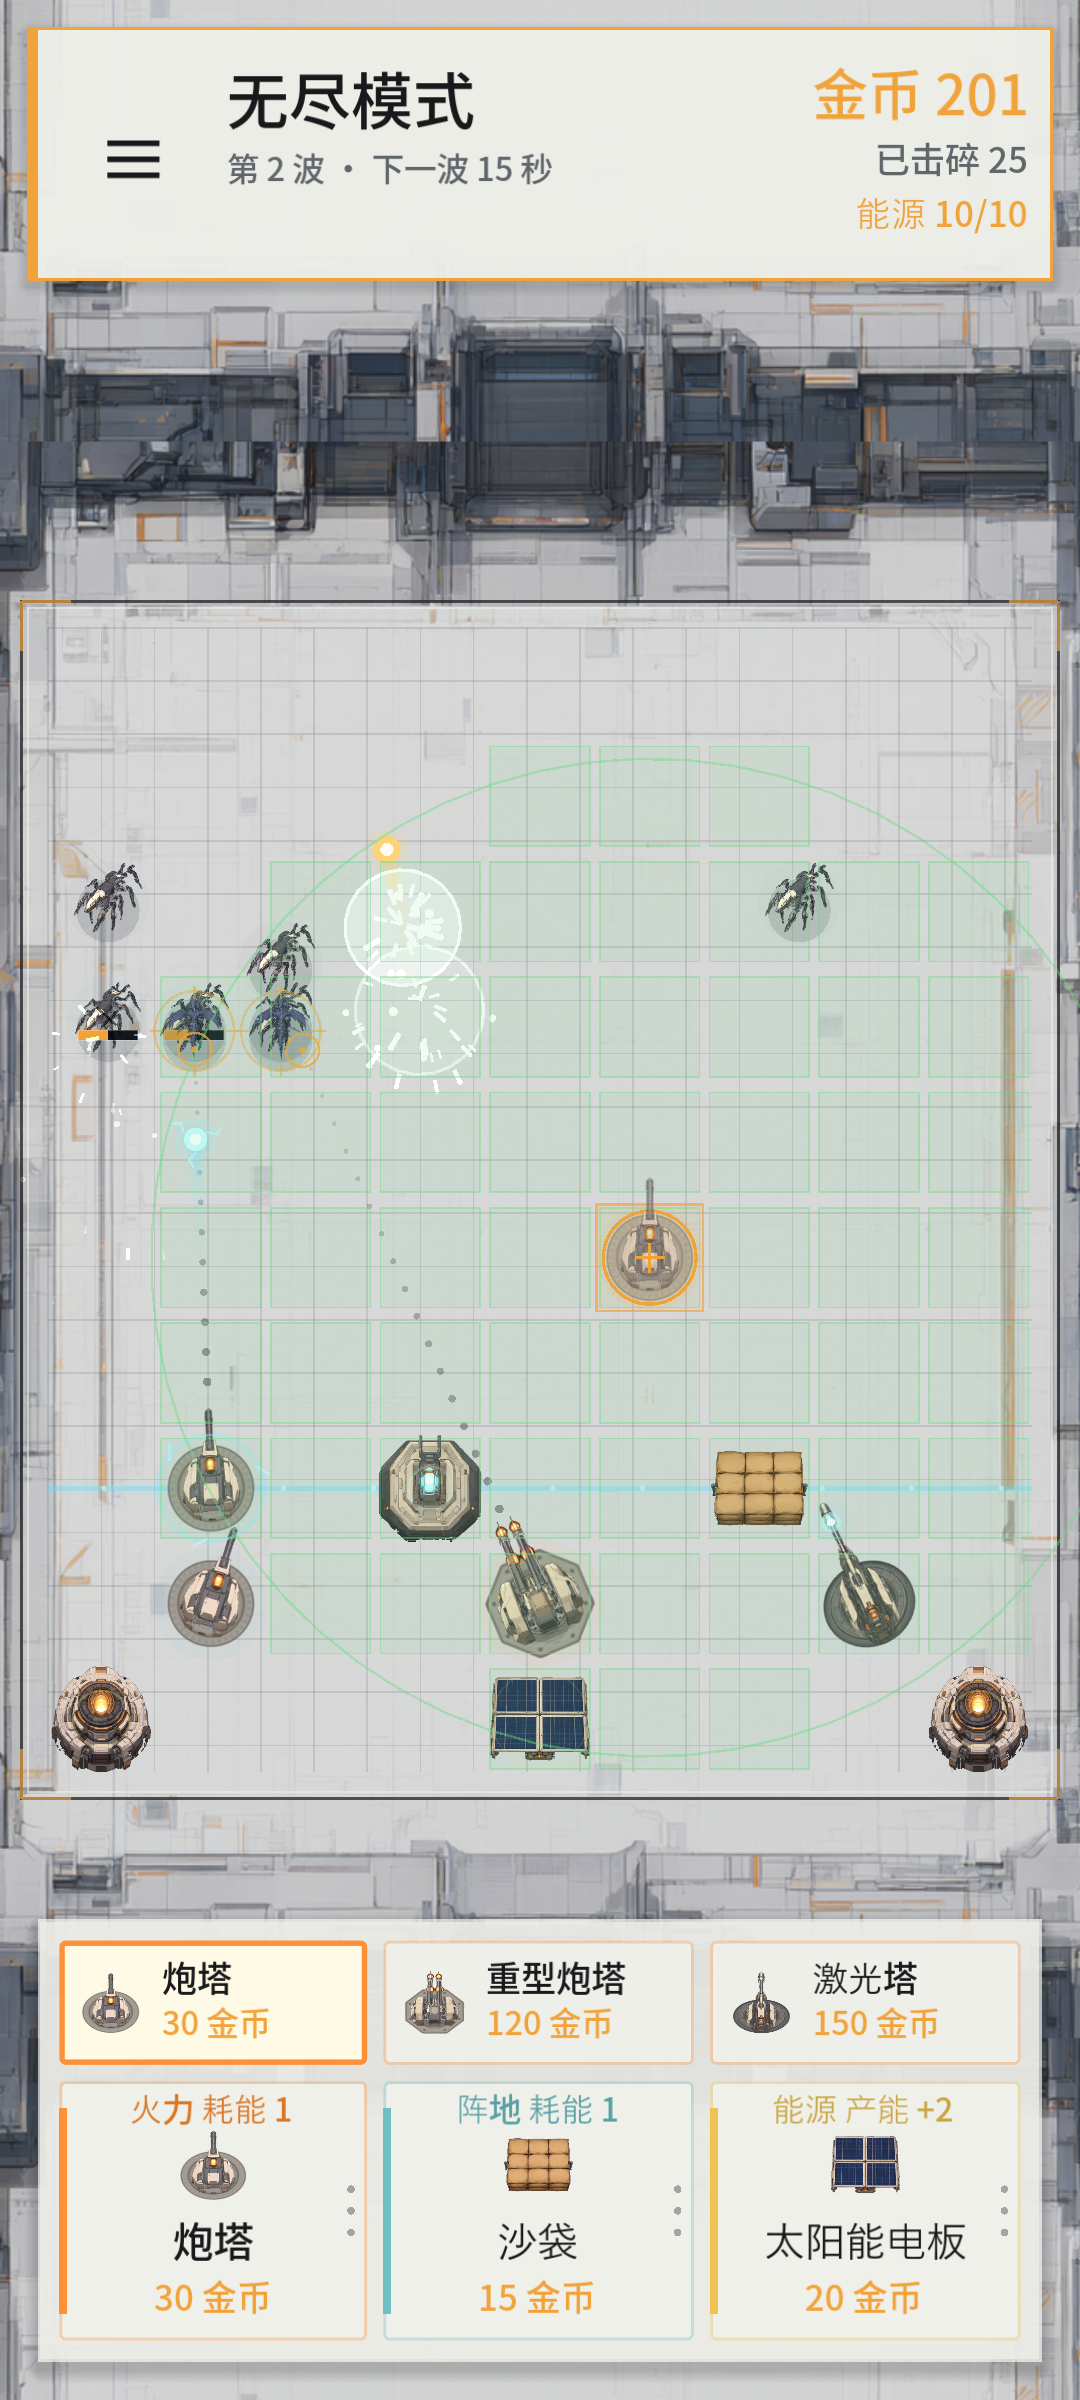
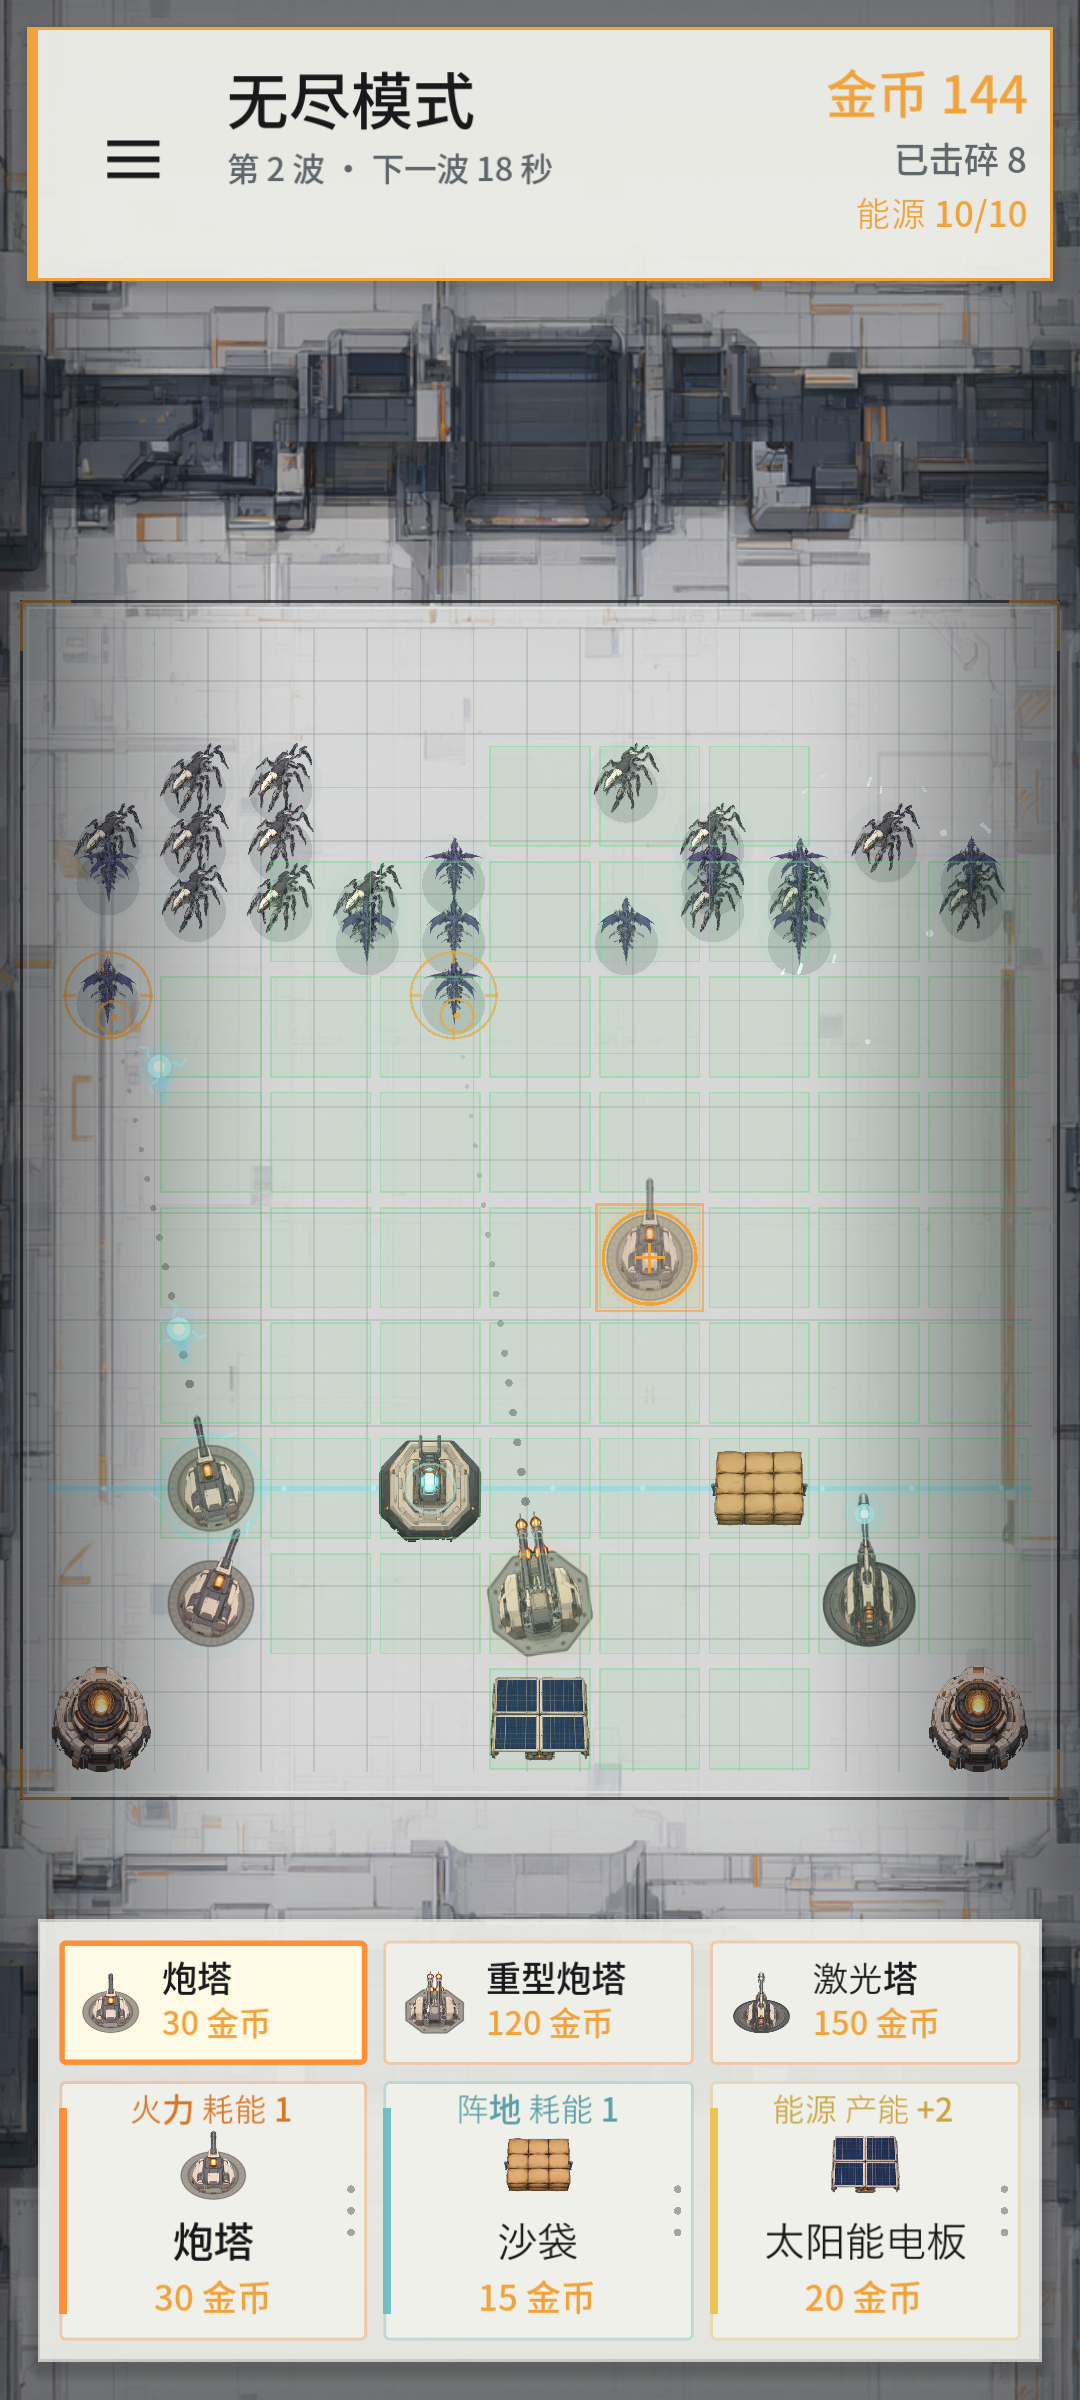
feat: 部署时减速压暗，射程改用格子判定
- 拖拽与二次确认期间战场速度降到 28%，屏幕四周压暗，确认或取消后恢复

- 移除射程圆弧，放置预览、选中建筑和索敌统一使用绿色格子

- 目标选择按格子过滤，更新测试与预览截图

diff --git a/README.md b/README.md
@@ -27,7 +27,7 @@
 - 开局没有默认建筑，玩家有 50 金币；5 秒准备期内不生成、不滚动方块
 - 底部商店固定三张类别卡：火力、阵地、能源；点击类别切换其道具列表，选中道具后类别卡会显示该道具
 - 火力：炮塔基础伤害 1、攻速 3.3 次/秒、射程 300；重型炮塔伤害 10、攻速 0.5 次/秒、射程 500，按威力连续贯穿；激光塔持续光束直接灼烧目标，伤害 5/0.2 秒
-- 火力建筑为 360° 圆形射程；拖放到位后进入二次确认，再拖一次选初始朝向，松手确认并扣费，之后自动锁定圆形范围内的目标
+- 火力建筑为 360° 圆形射程，按绿色格子判定目标；拖放到位后进入二次确认，再拖一次选初始朝向，松手确认并扣费，之后自动锁定射程格子内的目标
 - 重型炮塔 120 金币、激光塔 150 金币，和炮塔并列出现在火力道具列表中，直接建造
 - 阵地：沙袋生命 120，敌人接触后停下攻击沙袋，沙袋被摧毁后敌人继续前进；压缩塔 60 金币，生命 180
 - 压缩塔：穿过自身、沿所选朝向覆盖整条直线，范围内火力伤害翻倍，炮弹附带蓝色电击特效；多个压缩塔不叠加
@@ -80,6 +80,8 @@
 - 电击弹在命中时使用蓝白火花；激光塔吃到压缩塔增益时伤害同样翻倍
 - 敌人只会被阵地建筑拦截，因此沙袋/压缩塔要放在火力前面；被摧毁的阵地会从场上移除
 - 拖拽时以绿色格子标出圆形射程或压缩塔朝向直线，当前格用橙色描边；金币不足时卡片变暗且无法开始拖拽
+- 部署期间战场时间降到 28%，屏幕四周压暗，确认或取消后恢复；沉浸感更强，也不会在摆建筑时被怪物偷血
+- 射程判定完全按格子，不再画圆弧；预览绿格、选中建筑绿格和索敌范围使用同一套格子
 - 点击已放置的建筑打开聚焦面板，显示属性与已发射数量；点击空白处或右上角 `×` 关闭
 
 ![拖拽中的圆形射程：绿色格子为覆盖范围](range_preview.png)
@@ -149,7 +151,7 @@ Godot_v4.7.2-stable_win64.exe --headless --fixed-fps 60 --path . res://tools/res
 Godot_v4.7.2-stable_win64.exe --headless --fixed-fps 60 --path . res://tools/smoke_test.tscn
 ```
 
-覆盖：默认中文语言包、英文 key 完整性、三类道具列表与直接建造、开局 50 金币、太阳能电板 + 炮塔刚好 50、无默认建筑、开局 5 秒准备/准备期无方块、方块从顶部视野外进入、拖放后二次确认、火力圆形射界、能源按布置顺序供电、新建筑离线置灰与恢复、重型炮塔/激光塔直接建造、激光塔光束直接伤害、自动索敌开火、沙袋拦截与受击/摧毁后放行、压缩塔朝向直线增益/偏离无效、电击弹伤害翻倍、网格吸附布置/四边边缘格子/扣费/非法位置、聚焦面板属性与拆除、方块击碎与金币奖励、命中粒子、波次节奏与血量复利成长、四类怪物差异、主界面与设置面板、暂停恢复与设置开关。
+覆盖：默认中文语言包、英文 key 完整性、三类道具列表与直接建造、开局 50 金币、太阳能电板 + 炮塔刚好 50、无默认建筑、开局 5 秒准备/准备期无方块、方块从顶部视野外进入、拖放后二次确认、格子射程判定与圆形覆盖、部署减速/压暗与恢复、能源按布置顺序供电、新建筑离线置灰与恢复、重型炮塔/激光塔直接建造、激光塔光束直接伤害、自动索敌开火、沙袋拦截与受击/摧毁后放行、压缩塔朝向直线增益/偏离无效、电击弹伤害翻倍、网格吸附布置/四边边缘格子/扣费/非法位置、聚焦面板属性与拆除、方块击碎与金币奖励、命中粒子、波次节奏与血量复利成长、四类怪物差异、主界面与设置面板、暂停恢复与设置开关。
 
 ## 更新截图
 
